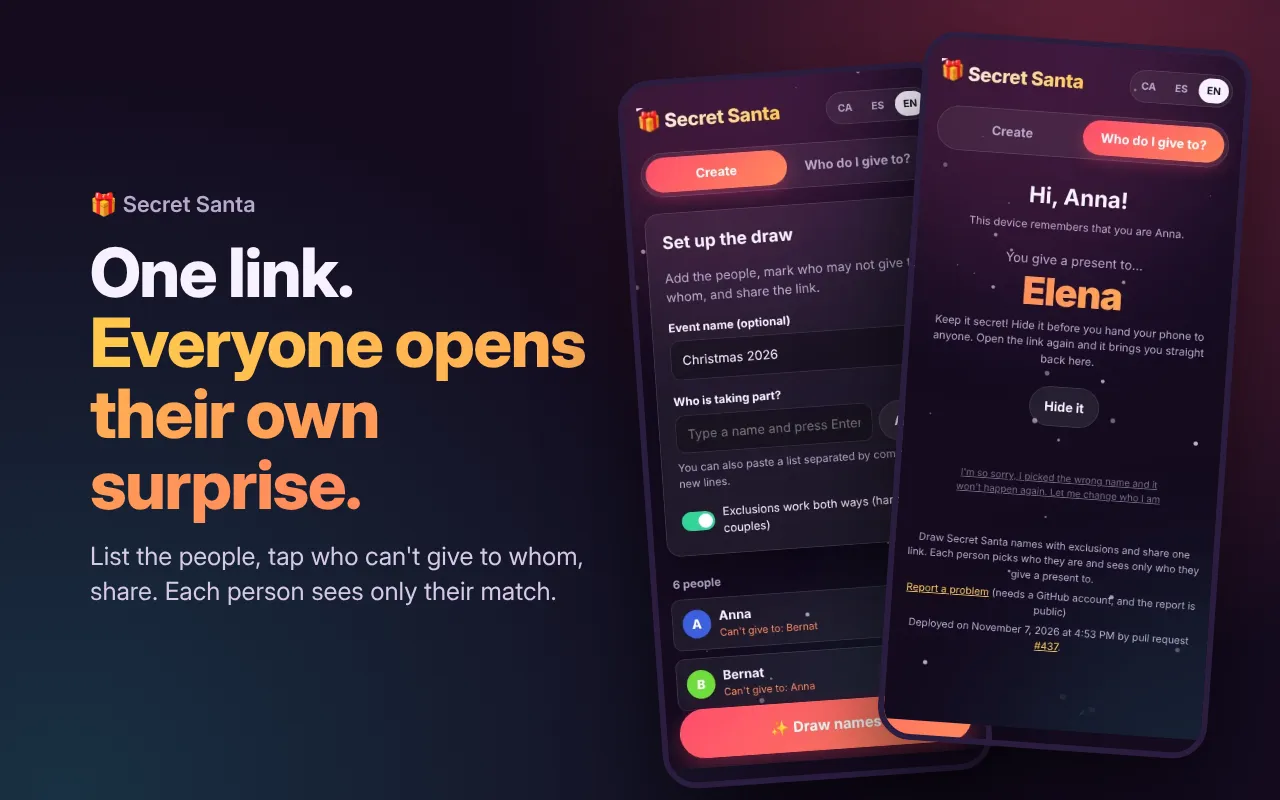
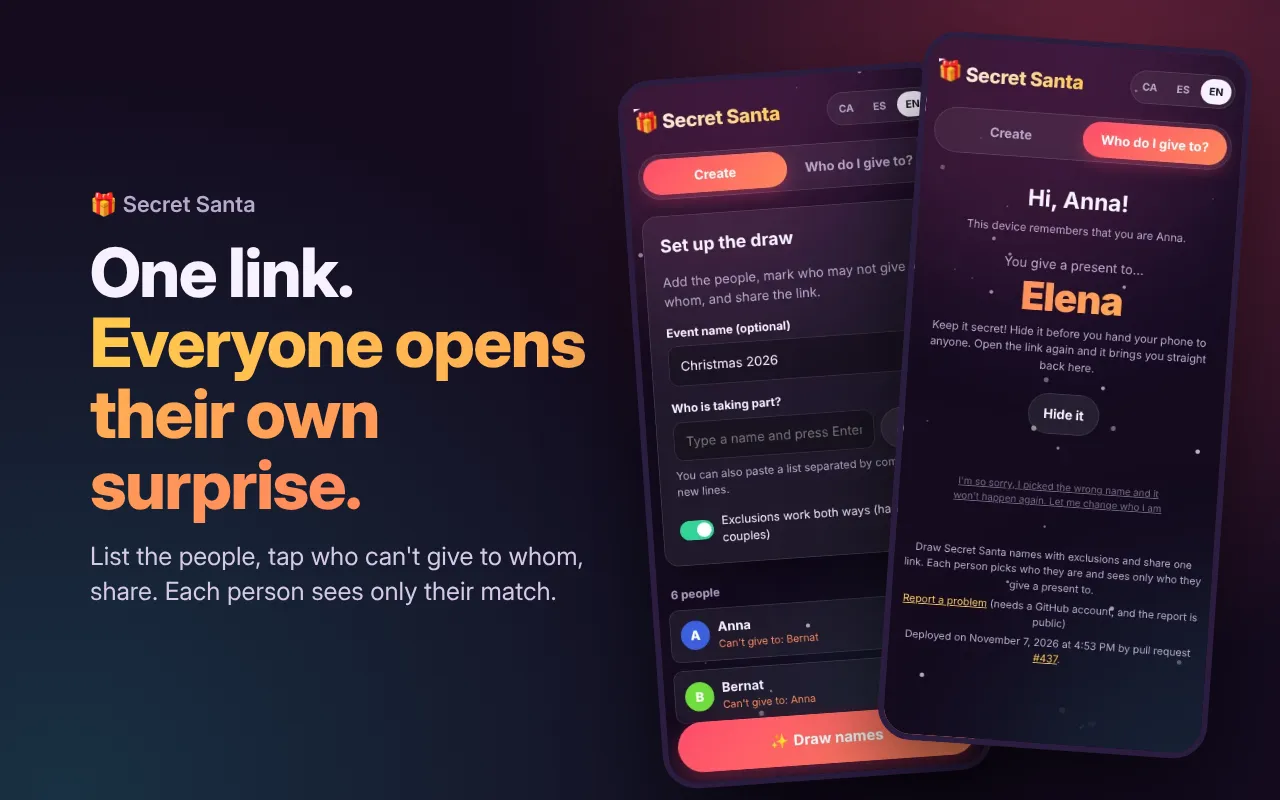
fix(secret-santa): fill the whole phone frame in the listing image
The 400x860 screenshots are shorter than the phone frame at its width,
so a strip of the frame showed under each one. The screenshots now
cover the frame, anchored at the top.

Claude-Session: https://claude.ai/code/session_011YsmyieWnzRgSvsJfhd3cV

diff --git a/resources/images/projects/sources/secretSanta/index.html b/resources/images/projects/sources/secretSanta/index.html
@@ -42,7 +42,7 @@
         border: 6px solid #2c1d40;
         box-shadow: 0 40px 90px rgba(0, 0, 0, 0.55);
       }
-      .phone img { display: block; width: 100%; }
+      .phone img { display: block; width: 100%; height: 100%; object-fit: cover; object-position: top; }
       .one { left: 640px; top: 70px; transform: rotate(-4deg); }
       .two { left: 900px; top: 40px; transform: rotate(4deg); }
     </style>
